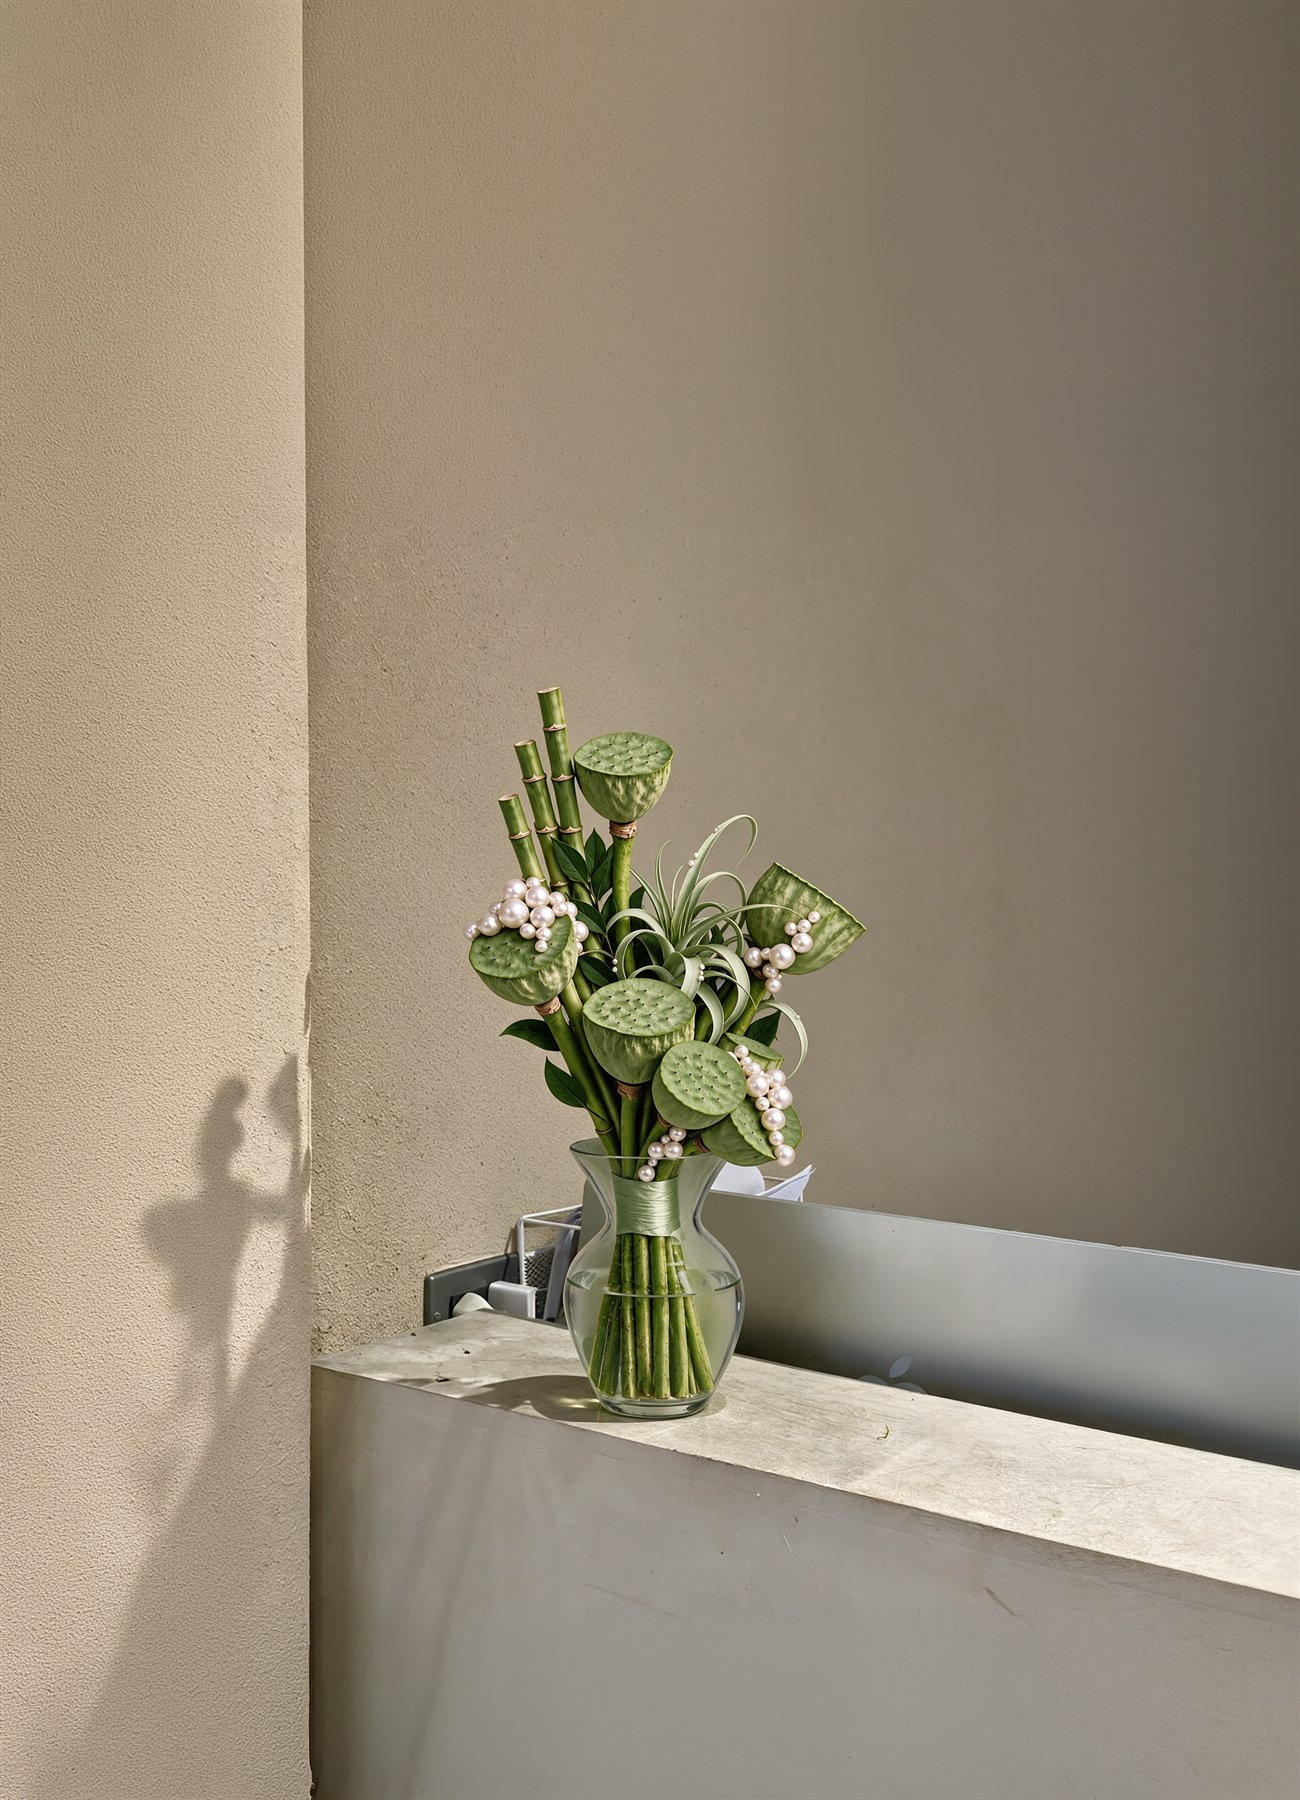
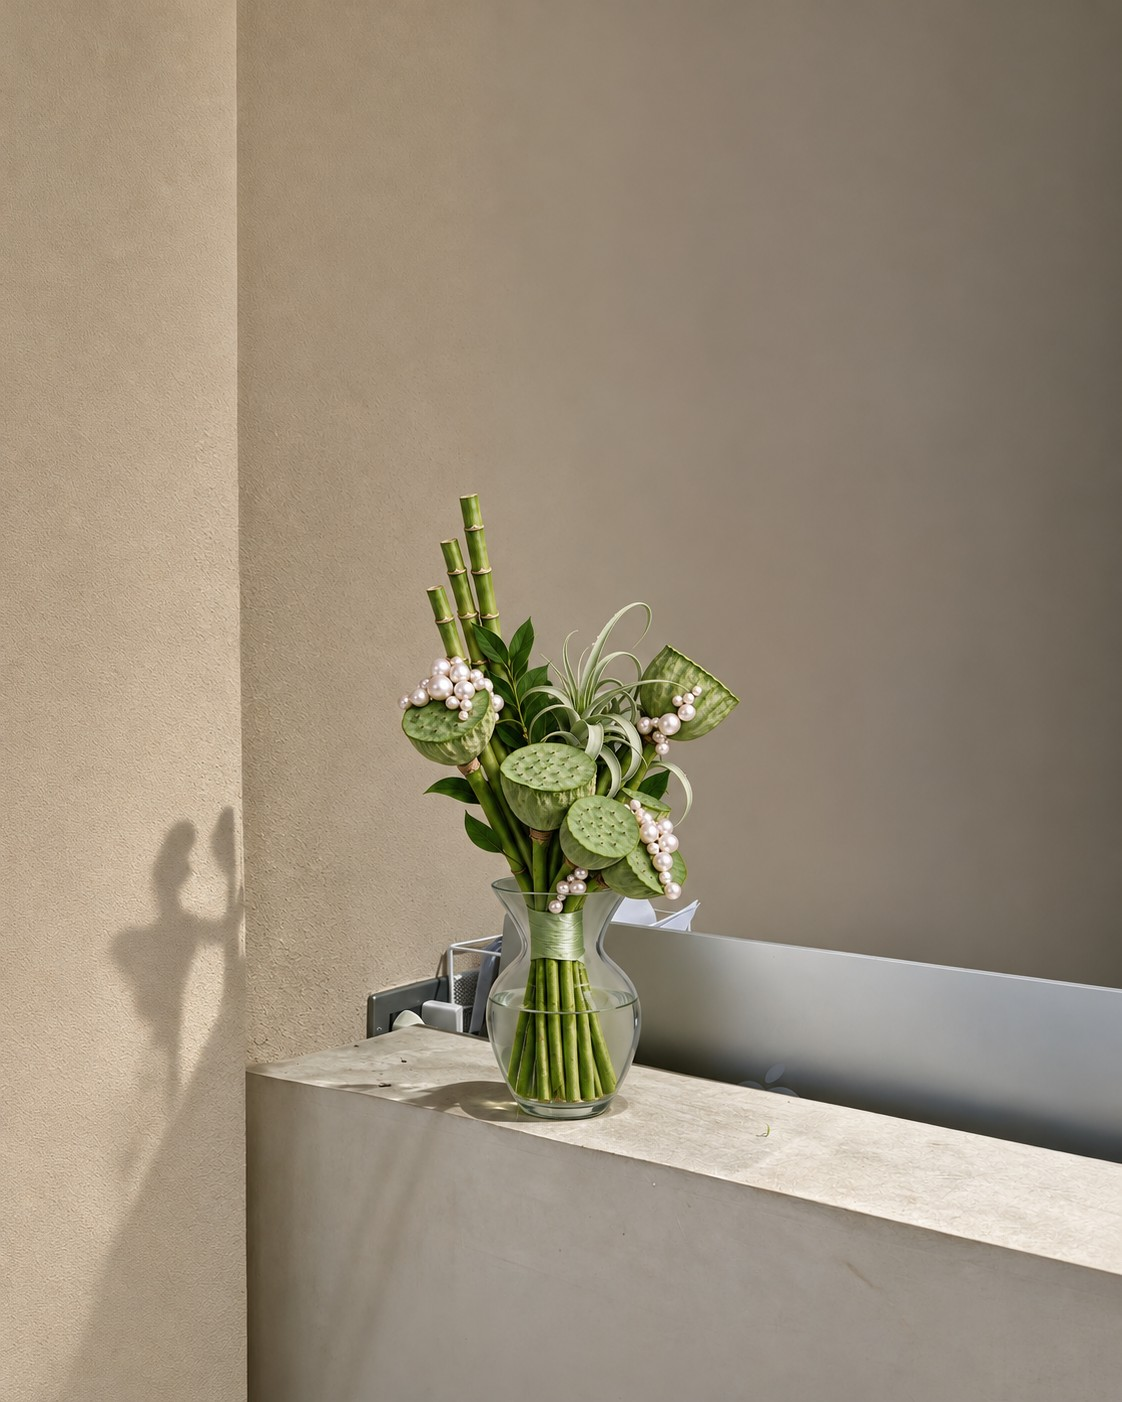
Glade·Still 인상 다듬기 흐름 추가, 이대로 제작한 부케는 꾸미지 않은 모습으로 카드·My Blooms·상세에 표시

Changed region(s): [[0.0, 0.0, 1.0, 1.0], [0.0624, 0.4601, 0.156, 0.4907], [0.0, 0.4294, 0.0312, 0.5214]]

diff --git a/src/data/bouquets.js b/src/data/bouquets.js
@@ -1,7 +1,7 @@
 import { useSyncExternalStore } from 'react'
 import { PLANTS, isExcludedPlant } from './plants'
 import { getProfile, subscribeProfile } from './profile'
-import stillPreview from '../assets/preview/bouquet.png'
+import stillPreview from '../assets/preview/still-preview.png'
 import stillVase from '../assets/result/still-vase.jpg'
 import stillHanging from '../assets/result/still-hanging.jpg'
 import groovePreview from '../assets/bouquets/grove-preview.png'
@@ -28,12 +28,14 @@ import hushCardFirst from '../assets/cards/hush-card-first.jpg'
 import emberCard from '../assets/cards/ember-card-final.jpg'
 import emberCardFirst from '../assets/cards/ember-card-first.jpg'
 import gladeCard from '../assets/cards/glade-card.jpg'
+import gladeCardFirst from '../assets/cards/glade-card-first.jpg'
 import swayCard from '../assets/cards/sway-card.jpg'
 import swayCardPlain from '../assets/cards/sway-card-plain.jpg'
 import lushCard from '../assets/cards/lush-card.jpg'
 import lushCardFirst from '../assets/cards/lush-card-first.jpg'
 import gladePreview from '../assets/bouquets/glade-preview.png'
 import gladeResult from '../assets/bouquets/glade-result.jpg'
+import gladeResultFirst from '../assets/bouquets/glade-result-first.jpg'
 import swayPreview from '../assets/bouquets/sway-preview.png'
 import swayResult from '../assets/bouquets/sway-result.jpg'
 import swayResultPlain from '../assets/bouquets/sway-result-plain.jpg'
@@ -73,31 +75,36 @@ export const BOUQUETS = [
     water: '2~3일 교체',
     summary: '향과 자극 부담은 낮추고, 오래 감상할 수 있도록 구성했어요.',
     desc: '연밥으로 단단한 구조를 잡고 살랄로 볼륨을 채웠어요. 대나무로 곧은 흐름을 더하고 세로그라피카로 은은한 질감을 살렸어요.',
+    // 처음엔 연밥 6 — 인상 다듬기 '더 풍성하게'(연밥 6 → 7) + 행잉이면 Figma 원래 최종본
     recipe: [
-      ['연밥', 7],
+      ['연밥', 6],
       ['살랄', 1],
       ['대나무', 3],
       ['세로그라피카', 1],
     ],
-    // Figma 2845:25478 / 말하는 중 2845:24527
+    tuneTargets: { volume: '연밥' },
+    // 연밥 6 풀부케 (Figma 3835:5038)
     preview: { image: stillPreview, box: [234, 417, 10, 214], listen: [209, 372, 221] },
     results: [
       {
         key: 'still-vase',
         label: 'Vessel Preview',
         image: stillVase,
-        size: [679, 940],
-        pos: [-0.5, -85],
+        // 연밥 6 + 진주 + 화기 (Figma 3835:5109)
+        size: [702.5, 877.8],
+        pos: [0, -33.8],
         bg: '#aab08a',
         shade: null,
         fade: [294, 0, '155, 149, 140', 0.6, '66.876%'],
         demo: ['진주로', '꾸며서', '화기에', '꽂아줘'],
-        hero: { image: stillVase, size: [541, 749], top: -190 },
+        hero: { image: stillVase, size: [560, 699.6], top: -149.2 },
         heroShade: [220, '97, 88, 80', 0.52],
         card: stillVase,
       },
+      // 인상 다듬기 '더 풍성하게'(연밥 6 → 7) + 행잉: 최종본
       {
         key: 'still-hanging',
+        tune: { volume: 1 },
         label: 'Hanging Preview',
         image: stillHanging,
         size: [683, 911],
@@ -353,16 +360,38 @@ export const BOUQUETS = [
     water: '2~3일 교체',
     summary: '향 부담은 낮추고, 예산에 맞춰 싱그럽게 구성했어요.',
     desc: '아스플레니움의 물결치는 잎으로 구조를 세우고 호스타의 넓은 잎으로 볼륨을 채웠어요. 스틸그라스로 둥글게 감기는 선을 그리고 보스턴펀으로 가벼운 결을 더했어요.',
+    // 처음엔 Texture 냉이초까지 — 인상 다듬기 '더 가볍게'로 냉이초를 빼고 진주·레이스를 더하면 Figma 원래 최종본
     recipe: [
       ['아스플레니움', 2],
       ['호스타', 4],
       ['스틸그라스', 6],
       ['보스턴펀', 1],
+      ['냉이초', 1],
     ],
-    preview: { image: gladePreview, box: [196, 396, 0, 224], listen: [184, 372, 224], crop: [137.76, 102.02, -21.94, -0.76] },
+    tuneTargets: { volume: '냉이초' },
+    // 냉이초까지 든 풀부케 (Figma 3835:4845 · 3835:4778)
+    preview: { image: gladePreview, box: [196, 396, 0, 224], listen: [173.4, 350.8, 230] },
     results: [
+      // 마이크로 처음 요청한 결과: 장식 없이 화기 (Figma 3835:4957)
       {
         key: 'glade-vase',
+        label: 'Vessel Preview',
+        image: gladeResultFirst,
+        size: [675, 900],
+        pos: [0, -10],
+        bg: '#a0a096',
+        shade: [229, '98, 98, 89', 0.41],
+        fade: [220, 0, '98, 98, 89', 0.9, '95.981%'],
+        demo: ['단정하게', '화기에', '꽂아줘'],
+        hero: { image: gladeResultFirst, size: [372, 496], top: 4 },
+        heroShade: [274, '98, 98, 89', 0.6],
+        card: gladeCardFirst,
+        cutout: gladeCutout,
+      },
+      // 인상 다듬기 '더 가볍게'(냉이초 빼기) + 진주·레이스 장식: 최종본
+      {
+        key: 'glade-lace-vase',
+        tune: { volume: -1, decor: ['pearl', 'lace'] },
         label: 'Vessel Preview',
         image: gladeResult,
         size: [813, 1084],

diff --git a/src/pages/MyBlooms.jsx b/src/pages/MyBlooms.jsx
@@ -2,6 +2,7 @@ import { useEffect, useRef, useState } from 'react'
 import { useLocation } from 'react-router'
 import backIcon from '../assets/edit/back.svg'
 import { SAVED_BLOOMS, bloomNameOf, useBloomNames, useMadeBloom } from '../data/blooms'
+import { findBouquet, findResult } from '../data/bouquets'
 import { fadeEdges } from '../hooks/fadeEdges'
 import { usePageBackground } from '../hooks/usePageBackground'
 import { usePageLeave } from '../hooks/usePageLeave'
@@ -467,22 +468,34 @@ function MyBlooms() {
               cardRefs.current[i] = el
             }}
             className="mb-card"
+            data-plain={madeBloom?.bouquet === bloom.id && !madeBloom.result}
             data-index={i}
             data-active={i === index}
             aria-hidden={i !== index}
           >
-            <img
-              className="mb-card__image"
-              src={bloom.image}
-              alt=""
-              draggable="false"
-              style={{
-                width: `${bloom.card[0]}%`,
-                height: `${bloom.card[1]}%`,
-                left: `${bloom.card[2]}%`,
-                top: `${bloom.card[3]}%`,
-              }}
-            />
+            {madeBloom?.bouquet === bloom.id && !madeBloom.result ? (
+              // AI 프리뷰 없이 만든 부케: 꾸미지 않은 풀부케 전체가 여유 있게 (Bloom Card와 같은 모습)
+              <img
+                className="mb-card__image mb-card__image--plain"
+                src={findBouquet(bloom.id).preview.image}
+                alt=""
+                draggable="false"
+              />
+            ) : (
+              <img
+                className="mb-card__image"
+                // 직접 만든 부케면 실제로 고른 결과의 카드 사진, 아니면 최종본
+                src={(madeBloom?.bouquet === bloom.id && findResult(madeBloom.result)?.card) || bloom.image}
+                alt=""
+                draggable="false"
+                style={{
+                  width: `${bloom.card[0]}%`,
+                  height: `${bloom.card[1]}%`,
+                  left: `${bloom.card[2]}%`,
+                  top: `${bloom.card[3]}%`,
+                }}
+              />
+            )}
             <span ref={fadeEdges} className="mb-card__label">
               <strong>{bloomNameOf(bloom.id, bloom.name)}</strong>
               {/* 민감도 · 추천 기준 (예: 저향 · 유지력 순) */}

diff --git a/src/pages/BloomDetails.jsx b/src/pages/BloomDetails.jsx
@@ -81,6 +81,22 @@ function settled(bloom) {
 function withMade(bloom, made) {
   if (!made || made.bouquet !== bloom.id || !made.items?.length) return bloom
   const result = findResult(made.result)
+  // AI 프리뷰 없이 만들었으면: 연출 소재 없이, 사진은 꾸미지 않은 풀부케 (완성 화면과 같은 모습)
+  if (!made.result) {
+    const bouquet = findBouquet(bloom.id)
+    return {
+      ...bloom,
+      swaps: made.swaps ?? {},
+      store: made.store,
+      recipe: made.items.map(({ name, qty }) => [name, qty]),
+      plants: made.items.map(({ name }) => name),
+      result: null,
+      decor: undefined,
+      form: undefined,
+      hero: { image: bouquet.preview.image, size: [390, 234], top: 160, x: bouquet.preview.heroX ?? 0, plain: true, shade: true },
+      heroShade: null,
+    }
+  }
   return {
     ...bloom,
     swaps: made.swaps ?? {},
@@ -149,9 +165,9 @@ function BloomDetails({ variant = 'details' }) {
   const bloom = isComplete
     ? {
         ...base,
-        // AI 결과 없이 만들었으면 풀부케 사진 — 부케 전체가 보이게 제목 아래부터 사진 칸 끝까지 (높이 268)
+        // AI 결과 없이 만들었으면 풀부케 사진 — 부케 전체가 보이게 부제목 아래부터 사진 칸 끝 조금 위까지 (높이 234)
         // heroX: 부케 줄기(대)가 가운데 오게 옆으로 미는 값 (bouquets.js preview.heroX, 없으면 0)
-        hero: result?.hero ?? { image: active.preview.image, size: [390, 268], top: 124, x: active.preview.heroX ?? 0, plain: true },
+        hero: result?.hero ?? { image: active.preview.image, size: [390, 234], top: 160, x: active.preview.heroX ?? 0, plain: true },
       }
     : base
   // 바꾼 이름이 있으면 그 이름 (부케 유형마다 하나 — 완성 화면에서 바꾸면 저장한 부케에도 그대로)

diff --git a/src/pages/BloomPreview.jsx b/src/pages/BloomPreview.jsx
@@ -30,7 +30,13 @@ const WORD_GAP = 800 // 단어가 하나씩 나오는 간격
 // Hush: 더 낮고 안정적으로(나선골풀 빼기) + 다발 → 화기
 // Ramble: 더 높고 길게(아이비 2 → 3) + 행잉 → 화기 + 장식 없음 → 진주·레이스
 const DEMO_GUIDE = {
-  still: { from: 'still-vase', to: 'still-hanging', text: '인상을 다듬어 행잉으로 바꿔볼까요?', form: 'hanging' },
+  still: {
+    from: 'still-vase',
+    to: 'still-hanging',
+    text: '인상을 다듬어 더 풍성한 행잉으로 바꿔볼까요?',
+    axes: { volume: 1 },
+    form: 'hanging',
+  },
   lush: { from: 'lush-wrap', to: 'lush-tall-wrap', text: '인상을 다듬어 더 높고 길게 해볼까요?', axes: { height: 1 } },
   sway: { from: 'sway-hanging', to: 'sway-plain-hanging', text: '인상을 다듬어 장식을 모두 빼볼까요?', decor: [] },
   hush: {
@@ -54,6 +60,13 @@ const DEMO_GUIDE = {
     text: '인상을 다듬어 더 풍성하게, 큐빅으로 꾸며볼까요?',
     axes: { volume: 1 },
     decor: ['cubic'],
+  },
+  glade: {
+    from: 'glade-vase',
+    to: 'glade-lace-vase',
+    text: '인상을 다듬어 더 가볍게, 진주·레이스로 꾸며볼까요?',
+    axes: { volume: -1 },
+    decor: ['pearl', 'lace'],
   },
   grove: { from: 'grove-vase', to: 'grove-tidy-vase', text: '인상을 다듬어 더 가볍고 정돈되게 해볼까요?', axes: { volume: -1, order: -1 } },
 }

diff --git a/src/pages/MyBlooms.css b/src/pages/MyBlooms.css
@@ -96,6 +96,18 @@
   pointer-events: none;
 }
 
+/* AI 프리뷰 없이 만든 부케: Bloom Card처럼 연두 그라데이션 위에 풀부케 전체 (이름 아래 · 아래 · 양옆 여백) */
+.mb-card[data-plain='true'] {
+  background: linear-gradient(to bottom, #b8c6a6, #dfe8d2);
+}
+
+.mb-card__image--plain {
+  inset: 64px 30px 36px;
+  width: calc(100% - 60px);
+  height: calc(100% - 100px);
+  object-fit: contain;
+}
+
 /* Still  저자극 · 저향 (카드 기준 x20, y16)
    밝은 사진에서도 윤곽만 잡히게 글자 바로 밑 아주 작은 그림자 (번짐 없이) */
 .mb-card__label {

diff --git a/src/pages/BloomDetails.css b/src/pages/BloomDetails.css
@@ -34,6 +34,12 @@
   object-fit: contain;
 }
 
+/* 풀부케(AI 결과 없음): 연두 바탕에 맞춰 제목 뒤만 살짝 어둡게 — 짙은 올리브 그라데이션은 너무 셈 */
+.bd__hero[data-plain='true'] .bd__hero-shade {
+  height: 210px;
+  background: linear-gradient(to bottom, rgba(128, 140, 106, 0.42), rgba(128, 140, 106, 0));
+}
+
 /* 완성 화면: 위쪽 짙은 그라데이션 293 */
 .bd__hero-shade {
   position: absolute;

diff --git a/src/pages/BloomCard.css b/src/pages/BloomCard.css
@@ -204,7 +204,11 @@
   object-fit: cover;
 }
 
+/* AI 프리뷰 없이 만든 부케: 풀부케 전체가 여유 있게 보이도록 위(이름)·아래·양옆에 여백 */
 .bc__face--front[data-plain='true'] .bc__image {
+  inset: 68px 32px 64px;
+  width: calc(100% - 64px);
+  height: calc(100% - 132px);
   object-fit: contain;
 }
 

diff --git a/CLAUDE.md b/CLAUDE.md
@@ -59,14 +59,15 @@ Product decisions to keep:
 - Use "화기" (not "화병") everywhere in Korean; English label is "Vessel Preview".
 - Fine-tune sheet has a fixed height (700px, max 90%); content scrolls inside and the apply button stays at the bottom.
 - AI preview result bar: "부케 제작하기" (was "실제 제작 준비하기") + a round sage Fine-tune (인상 다듬기) icon button next to it; there is no mic re-request on the result screen. The first AI preview screen guides the mic ("마이크를 눌러 원하는 연출을 말해보세요" + soft ring).
-- Still demo guide: vase result → "인상을 다듬어 행잉으로 바꿔볼까요?" (ring on the Fine-tune button, then on the 행잉 chip, then on 수정 적용하기) → after applying, "이제 실제로 만들어볼까요?" with a ring on 부케 제작하기.
+- Still: recipe has 연밥 6 (Figma originally 7, `tuneTargets: { volume: '연밥' }`); preview Figma 3835:5038, vase result Figma 3835:5109 (연밥 6 + 진주). `still-hanging` is now a tune result (`tune: { volume: 1 }`): Fine-tune 더 풍성하게 (연밥 6→7) + 행잉. Demo guide: "인상을 다듬어 더 풍성한 행잉으로 바꿔볼까요?" (ring on the Fine-tune button, the volume slider's right end, the 행잉 chip, then 수정 적용하기) → after applying, "이제 실제로 만들어볼까요?" with a ring on 부케 제작하기.
 - Lush (유지력 + 무필터): recipe has 운룡버들 1 (Figma originally 2). The mic gives the first result `lush-wrap` (Figma 3833:458, one willow); Fine-tune "더 높고 길게" adds one Line plant (운룡버들 1→2, guide "Line 역할을 하는 운룡버들을 하나 더 넣고…") and switches to `lush-tall-wrap` (the original two-willow photo). Results with `tune: {...}` appear only through Fine-tune, never from the mic. Lush preview image (Bloom Preview / AI preview) is the one-willow version (Figma 2881:3646). Lush demo guide: "인상을 다듬어 더 높고 길게 해볼까요?" → ring at the right end of the height slider → 수정 적용하기 → 부케 제작하기 (same pattern as Still; config `DEMO_GUIDE` in `BloomPreview.jsx`). The home My Blooms cutout is still the two-willow image.
 - Sway (유지력 + 저향): the mic result `sway-hanging` has lace + pearl; Fine-tune 장식 "없음" switches to `sway-plain-hanging` (Figma 3835:3277, no decorations; styling cost = hanging only 13,000). Demo guide rings the "없음" chip. A result's `tune` can also hold `decor: [...]`, matched exactly.
 - Hush (예산 + 저자극 + 저향): recipe adds 나선골풀 1 (Texture); preview is Figma 3835:3452 (with 나선골풀). The mic gives `hush-wrap` (Figma 3835:3374, 다발 + lace/pearl); Fine-tune 더 낮고 안정적으로 + 화기 removes 나선골풀 and shows `hush-vase` (the original final photo). `tuneTargets: { height: '나선골풀' }` in bouquets.js overrides the step rule for that axis (a target plant can go to 0). Demo guide rings the height slider's left end and the 화기 chip.
 - Ramble (예산 + 무필터): the mic gives `ramble-hanging` (Figma 3835:3832, hanging, no decorations); Fine-tune 더 높고 길게 (아이비 2→3) + 화기 + 진주·레이스 shows `ramble-vase` (the original final photo). Demo guide rings the height slider's right end and the 화기 · 진주 · 레이스 chips.
 - Ember (예산 + 저자극): recipe has 엽란 1 (Figma originally 2); preview is Figma 3835:4051. The mic gives `ember-wrap` (Figma 3835:4409, wrap only, no decorations, demo "깔끔하게 다발로 묶어줘"); Fine-tune 더 풍성하게 + 큐빅 adds 엽란 1→2 (`tuneTargets: { volume: '엽란' }`, guide "Structure 단계의 엽란을 하나 더 넣어, 부케를 풍성하게 채워요.") and shows `ember-cubic-wrap` (Figma 3835:4485). Demo guide rings the volume slider's right end and the 큐빅 chip. The home My Blooms cutout is still the old image (black leaves + lace).
+- Glade (예산 + 저향): recipe adds 냉이초 1 (Texture, `tuneTargets: { volume: '냉이초' }`); preview is Figma 3835:4845 (no crop). The mic gives `glade-vase` (Figma 3835:4957, 화기, no decorations, demo "단정하게 화기에 꽂아줘"); Fine-tune 더 가볍게 + 진주 · 레이스 removes 냉이초 and shows `glade-lace-vase` (the original final photo). Demo guide rings the volume slider's left end and the 진주 · 레이스 chips.
 - Decor sentence: only added → "진주 · 레이스 장식을 더했어요", only removed → "… 장식을 뺐어요", both → "… 장식으로 바꿨어요".
-- "이대로 부케 제작하기" (Bloom Preview, skipping AI) makes the bouquet with no result: no styling materials, and Complete / Bloom Card / My Blooms show the plain bouquet photo (fully visible in the hero; `preview.heroX` shifts it so the stem is centered, Grove 27).
+- "이대로 부케 제작하기" (Bloom Preview, skipping AI) makes the bouquet with no result: no styling materials, and Complete / Bloom Card / My Blooms / Details show the plain bouquet photo (fully visible in the hero; `preview.heroX` shifts it so the stem is centered, Grove 27). On Bloom Card and the My Blooms card the plain bouquet sits on the sage gradient with margins (below the name, above the saved pill, both sides) so the whole bouquet shows. A user-made bloom made with an AI result shows that result's card in My Blooms.
 - My Blooms sample cards show each bouquet's final version = the last entry in `results` (Still hanging, Lush two willows, Grove tidy, Sway no decorations), with recipe/decor/price adjusted by that result's `tune`. User-made blooms keep what was actually made.
 - Composition (cart) is always sorted by step: Structure → Volume → Line → Texture (same step keeps the added order).
 - Final Preview subtitle states what changed (e.g. "행잉 연출로 바꿨어요."); no tag chip under it.
